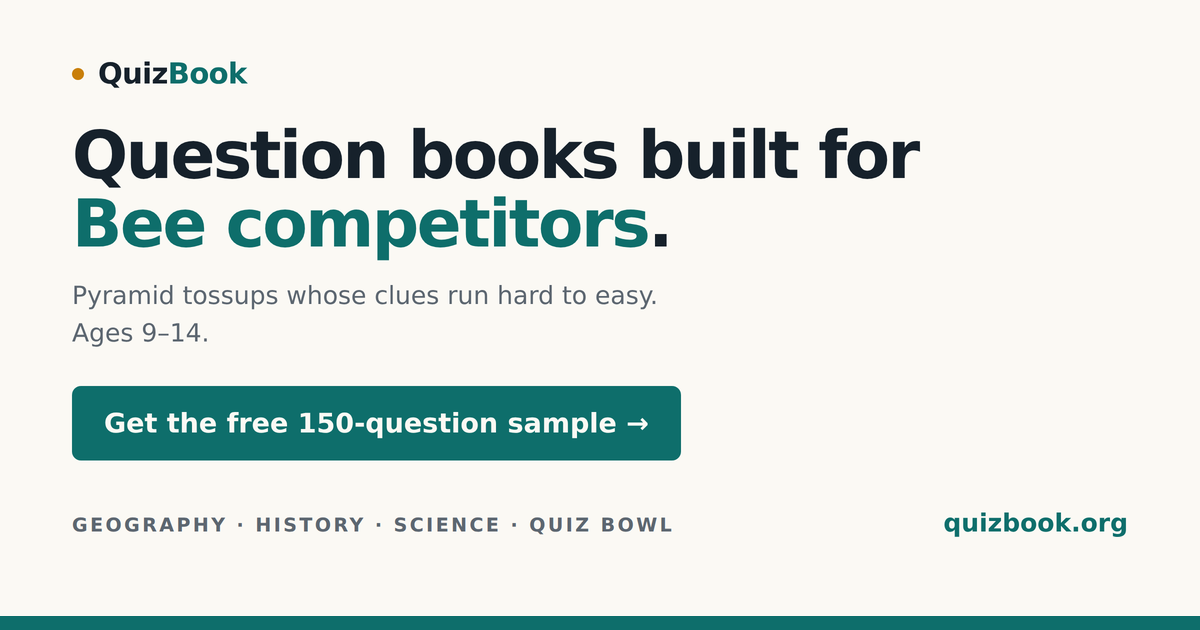
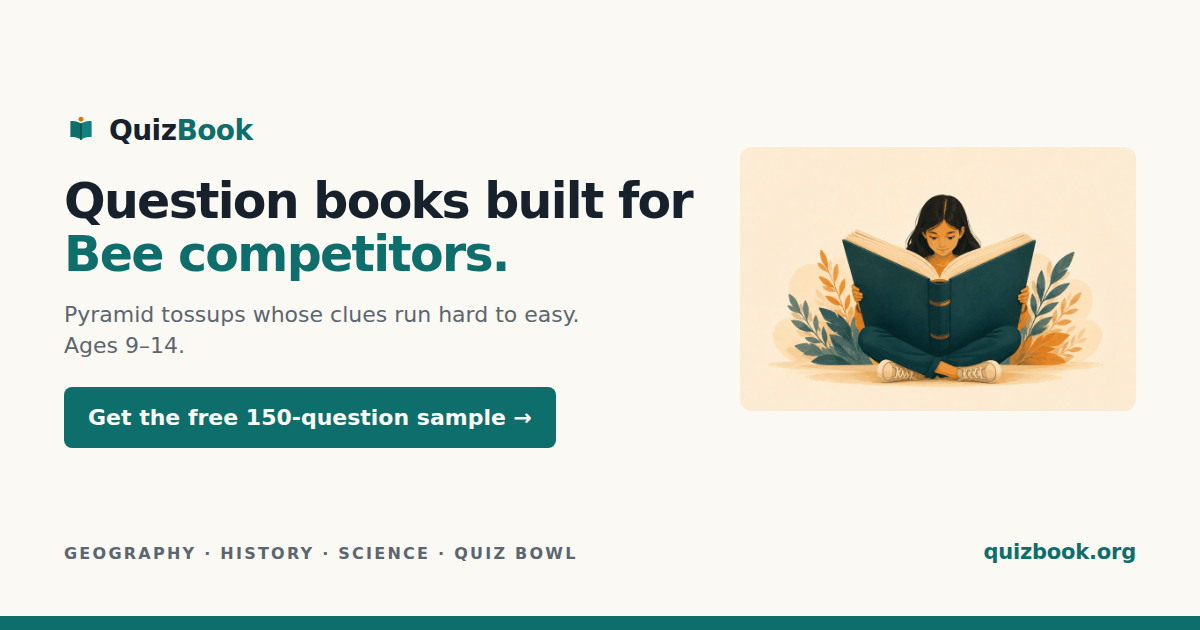
Put the reader illustration on the page and the social card
The "Why an ebook" band opened cold with four text cards. It now runs as
a two-column band: the illustration on the left, the four points as a 2x2
grid beside it, stacking on narrow screens. The earlier float-right
version squeezed the four columns into strips and crowded the readers
panel underneath.

Ships the artwork at web weight — a 30 KB WebP with a quantised PNG
fallback — plus a 520px copy for the sample email.

The social card had an empty right half; the illustration fills it, and
the wordmark now carries the book mark instead of the old dot. Built by
tools/og_card.py in the private repo so it can be rebuilt from source.

apple-touch-icon and the JSON-LD logo pointed at the 1200x630 card, which
is the wrong shape for both. They now use a square 180px icon.

diff --git a/index.html b/index.html
@@ -7,7 +7,7 @@
 <meta name="description" content="Question books for Geography, History, Science and Quiz Bowl competitors. Pyramid-style tossups written for students aged 9–14.">
 <link rel="canonical" href="https://quizbook.org/">
 <link rel="icon" href="favicon.svg" type="image/svg+xml">
-<link rel="apple-touch-icon" href="og-image.png">
+<link rel="apple-touch-icon" href="icon-180.png">
 <meta property="og:type" content="website">
 <meta property="og:url" content="https://quizbook.org/">
 <meta property="og:site_name" content="QuizBook">
@@ -24,7 +24,7 @@
 <script type="application/ld+json">
 {"@context":"https://schema.org","@type":"Organization","name":"QuizBook",
  "url":"https://quizbook.org/","email":"quizbookorg@gmail.com",
- "logo":"https://quizbook.org/og-image.png",
+ "logo":"https://quizbook.org/icon-180.png",
  "description":"Question books of pyramid-style tossups for Geography, History, Science and Quiz Bowl competitors aged 9-14."}
 </script>
 <style>
@@ -201,8 +201,15 @@ a.state.live:hover{background:var(--teal);color:var(--paper)}
 .peek .cap b{color:var(--ink);font-weight:700;display:block;font-size:14.5px;margin-bottom:1px}
 
 /* ---- why an ebook ---- */
-.why-grid{display:grid;grid-template-columns:repeat(4,1fr);gap:28px;margin-top:8px}
-@media(max-width:900px){.why-grid{grid-template-columns:repeat(2,1fr)}}
+.why-layout{display:grid;grid-template-columns:360px 1fr;gap:56px;
+  align-items:center;margin-top:18px}
+.reader{display:block;width:100%;height:auto;border-radius:10px}
+.why-grid{display:grid;grid-template-columns:repeat(2,1fr);gap:26px 34px}
+@media(max-width:900px){
+  .why-layout{grid-template-columns:1fr;gap:28px;justify-items:center}
+  .reader{max-width:420px}
+  .why-grid{width:100%}
+}
 @media(max-width:560px){.why-grid{grid-template-columns:1fr}}
 .why-grid h3{font-size:15.5px;margin:0 0 5px}
 .why-grid p{margin:0;color:var(--ink-soft);font-size:14.5px;line-height:1.55}
@@ -367,6 +374,12 @@ footer .wrap{display:flex;justify-content:space-between;gap:16px;flex-wrap:wrap}
   <div class="wrap">
     <p class="label">Why an ebook</p>
     <h2>Made to be studied, not just read</h2>
+    <div class="why-layout">
+    <picture>
+      <source srcset="reader.webp" type="image/webp">
+      <img class="reader" src="reader.png" width="900" height="600" loading="lazy"
+           alt="A girl sitting cross-legged, absorbed in a large open book.">
+    </picture>
     <div class="why-grid">
       <div>
         <h3>Works offline</h3>
@@ -384,6 +397,7 @@ footer .wrap{display:flex;justify-content:space-between;gap:16px;flex-wrap:wrap}
         <h3>Bookmark and highlight</h3>
         <p>Mark the questions you missed and come back to drill exactly those.</p>
       </div>
+    </div>
     </div>
     <p class="readers"><b>Recommended readers:</b> Apple Books on iPhone, iPad and Mac
       &middot; <b>Lithium</b> (free) on Android. Both support the tap-to-reveal answers.</p>
@@ -444,7 +458,7 @@ footer .wrap{display:flex;justify-content:space-between;gap:16px;flex-wrap:wrap}
 <footer>
   <div class="wrap">
     <span>© <span id="yr">2026</span> QuizBook</span>
-    <span class="ver">build 2026-08-10 09:30 UTC</span>
+    <span class="ver">build 2026-08-10 14:05 UTC</span>
   </div>
 </footer>
 

diff --git a/thanks.html b/thanks.html
@@ -141,7 +141,7 @@ footer .wrap{display:flex;justify-content:space-between;gap:16px;flex-wrap:wrap}
 <footer>
   <div class="wrap">
     <span>© <span id="yr">2026</span> QuizBook</span>
-    <span class="ver">build 2026-08-10 09:30 UTC</span>
+    <span class="ver">build 2026-08-10 14:05 UTC</span>
   </div>
 </footer>
 
